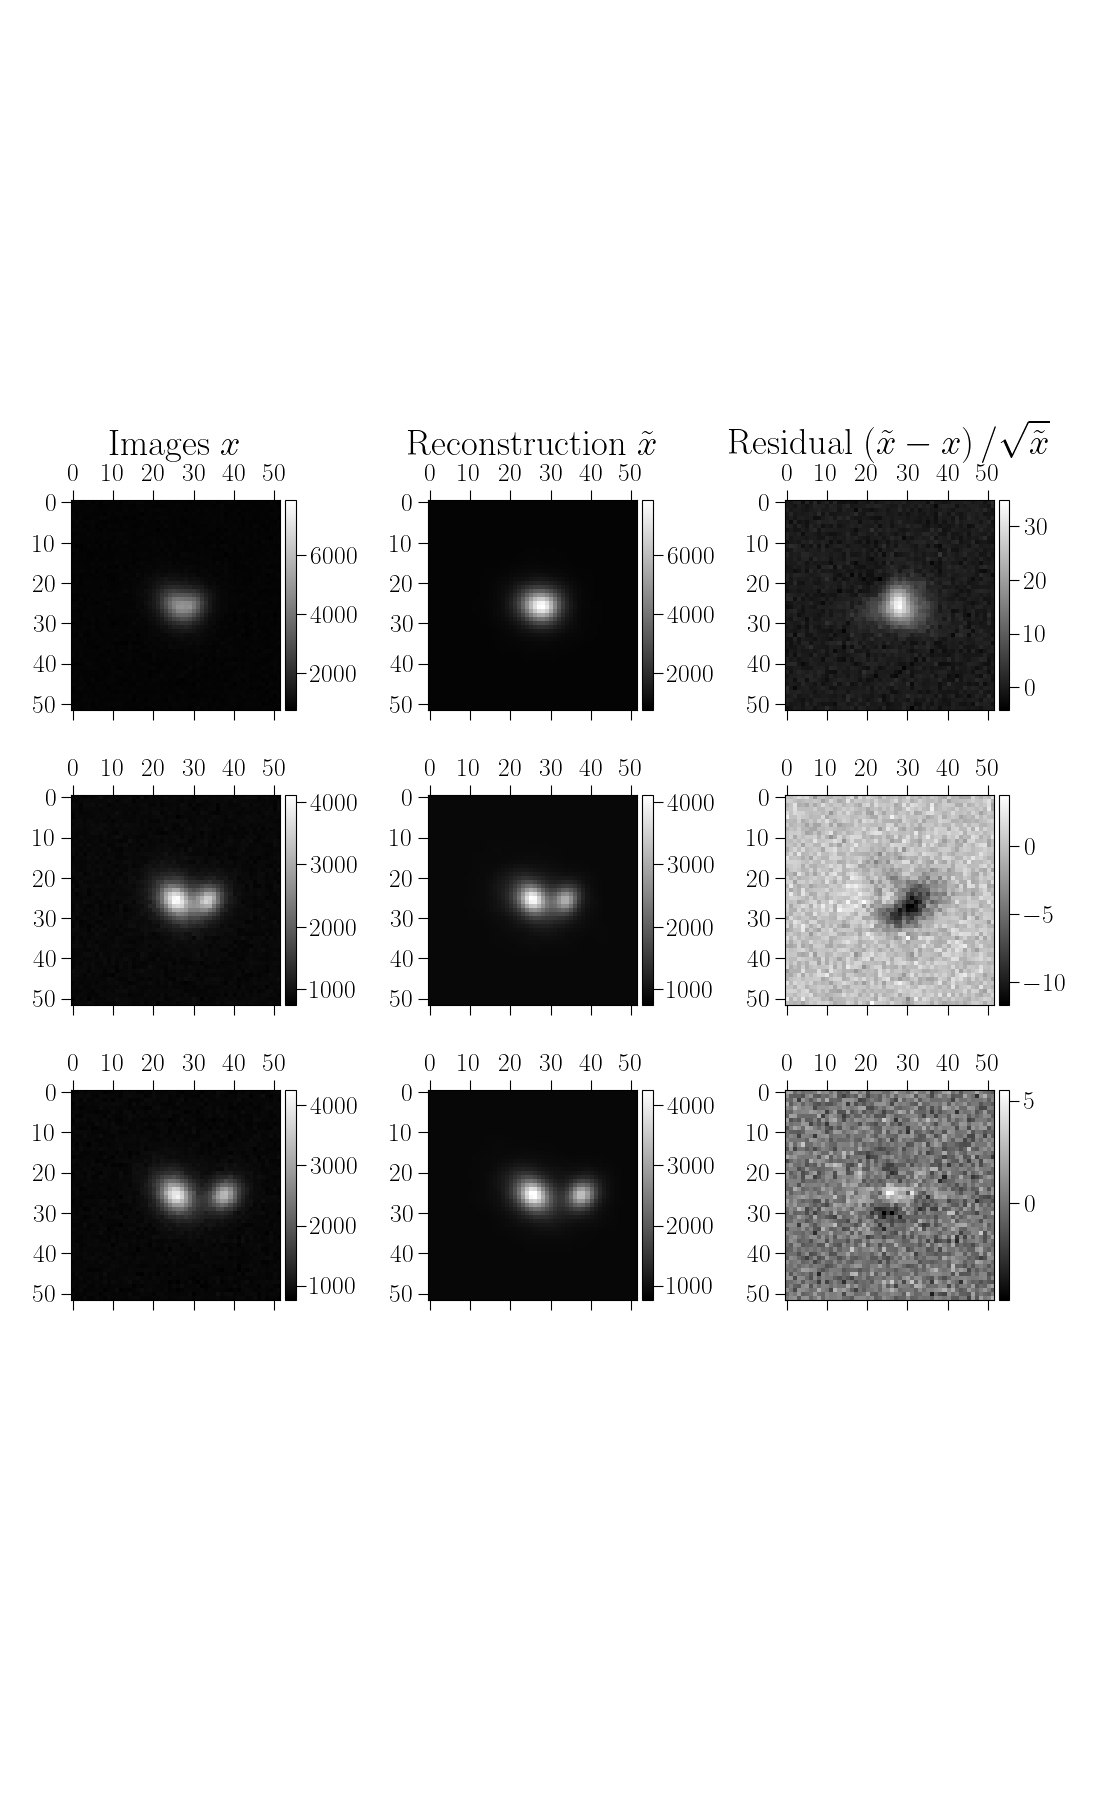
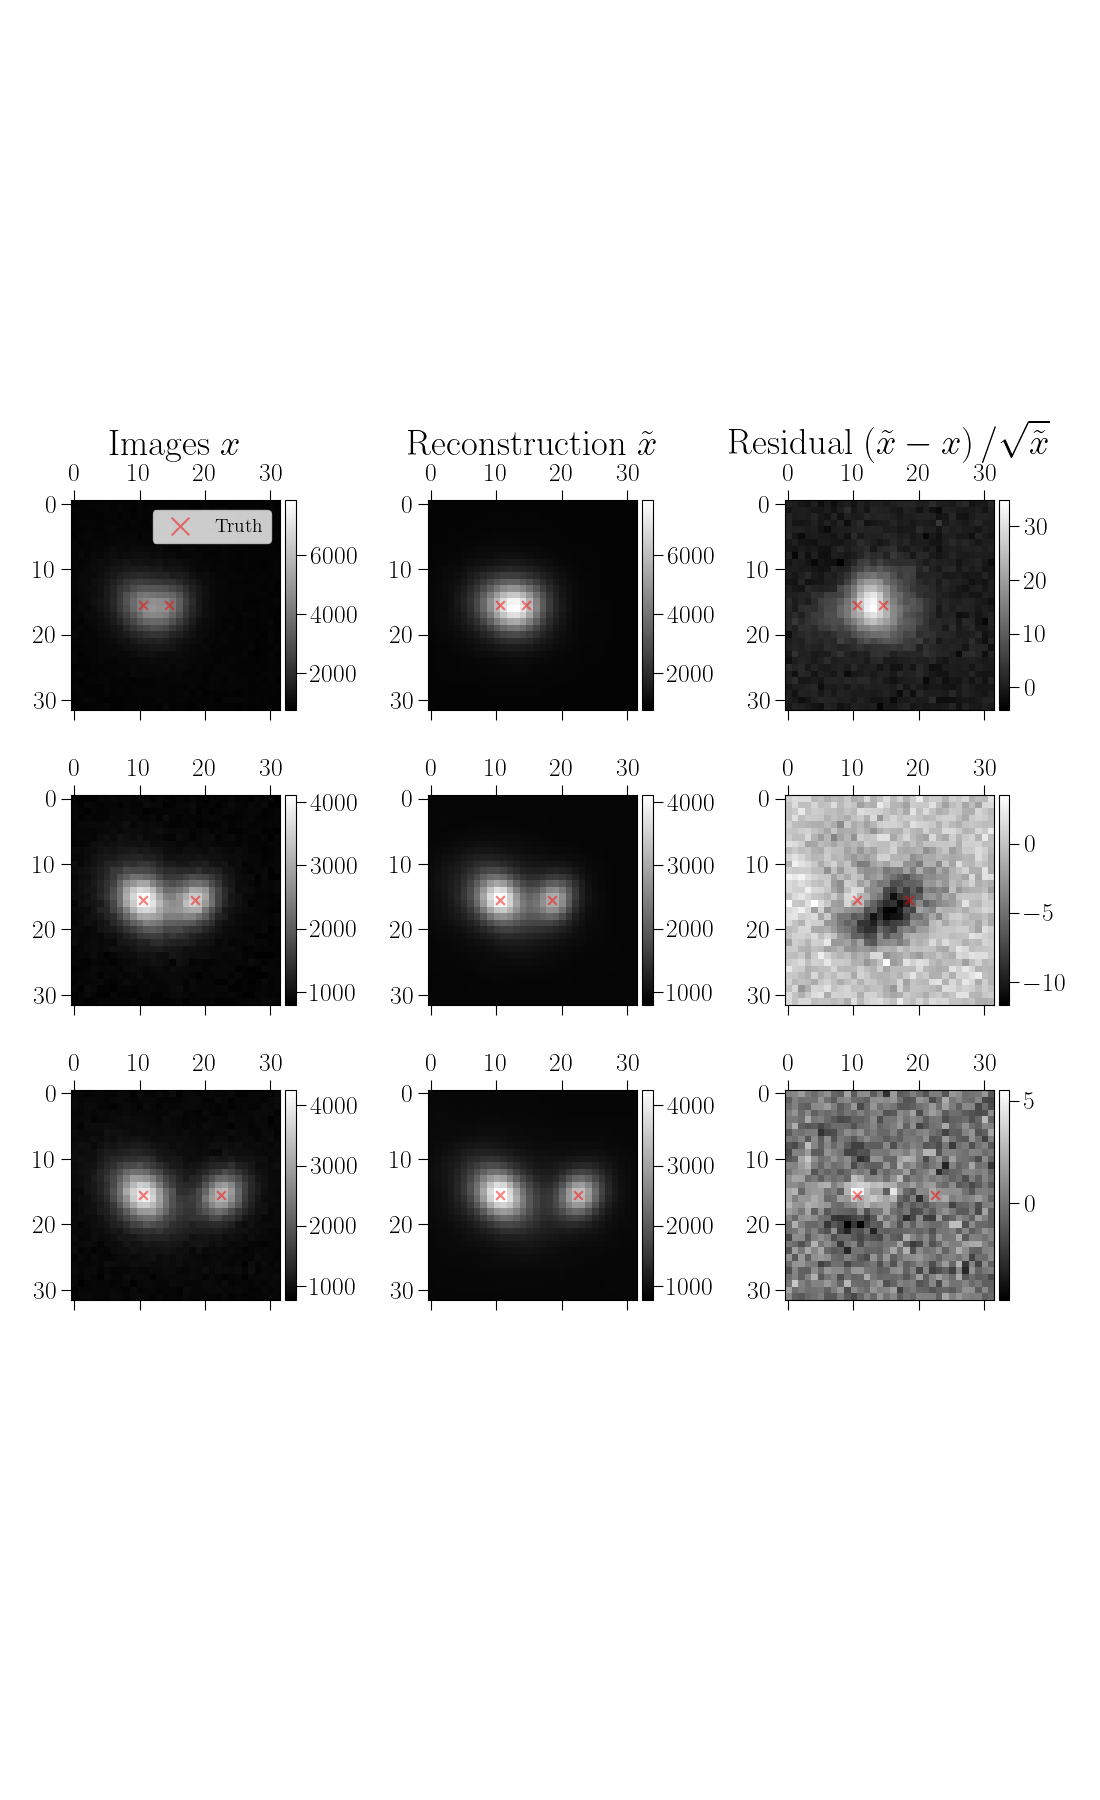
fix toy residual figure

diff --git a/case_studies/galsim_galaxies/get_figures.py b/case_studies/galsim_galaxies/get_figures.py
@@ -861,7 +861,7 @@ class ToySeparationFigure(BlissFigure):
         fig, axes = plt.subplots(1, 3, figsize=(12, 7))
         axes = axes.flatten()
         seps_to_plot = self.separations_to_plot
-        trim = 20  # zoom into relevant part of the image
+        trim = 25  # zoom into relevant part of the image
 
         c1 = plt.rcParams["axes.prop_cycle"].by_key()["color"][1]  # true
         c2 = plt.rcParams["axes.prop_cycle"].by_key()["color"][3]  # predicted
@@ -876,8 +876,8 @@ class ToySeparationFigure(BlissFigure):
             axes[ii].imshow(image, cmap="gray")
             axes[ii].scatter(x1, y1, marker="x", color="r", s=30, label=None if ii else "Truth")
             axes[ii].scatter(x2, y2, marker="+", color="b", s=50, label=None if ii else "Predicted")
-            axes[ii].set_xticks([0, 10, 20, 30, 40, 50])
-            axes[ii].set_yticks([0, 10, 20, 30, 40, 50])
+            axes[ii].set_xticks([0, 10, 20, 30, 40])
+            axes[ii].set_yticks([0, 10, 20, 30, 40])
             axes[ii].set_title(rf"\rm Separation: {psep} pixels")
 
             if ii == 0:
@@ -910,15 +910,19 @@ class ToySeparationFigureResiduals(ToySeparationFigure):
 
     def create_figure(self, data) -> Figure:
         n_examples = 3
+        bp = 24
         seps_to_plot = [4, 8, 12]
         seps = data["seps"]
+        tplocs: np.ndarray = data["truth"]["ploc"]
         images_all, recon_all, res_all = data["images"], data["recon"], data["resid"]
         trim = 20
         indices = np.array([list(seps).index(psep) for psep in seps_to_plot]).astype(int)
 
-        images = images_all[indices, 0, trim:-trim, trim:-trim]
-        recons = recon_all[indices, 0, trim:-trim, trim:-trim]
-        residuals = res_all[indices, 0, trim:-trim, trim:-trim]
+        images = images_all[indices, 0, trim + 10 : -trim - 10, trim + 15 : -trim - 5]
+        recons = recon_all[indices, 0, trim + 10 : -trim - 10, trim + 15 : -trim - 5]
+        residuals = res_all[indices, 0, trim + 10 : -trim - 10, trim + 15 : -trim - 5]
+        x1 = tplocs[indices, :, 1] + bp - 0.5 - trim - 15
+        y1 = tplocs[indices, :, 0] + bp - 0.5 - trim - 10
 
         pad = 6.0
         fig, axes = plt.subplots(nrows=n_examples, ncols=3, figsize=(11, 18))
@@ -936,6 +940,10 @@ class ToySeparationFigureResiduals(ToySeparationFigure):
                     r"Residual $\left(\tilde{x} - x\right) / \sqrt{\tilde{x}}$", pad=pad
                 )
 
+            ax_true.scatter(x1[i], y1[i], color="r", alpha=0.5, s=40, marker="x", label="Truth")
+            ax_recon.scatter(x1[i], y1[i], color="r", alpha=0.5, s=40, marker="x")
+            ax_res.scatter(x1[i], y1[i], color="r", alpha=0.5, s=40, marker="x")
+
             # standarize ranges of true and reconstruction
             image = images[i]
             recon = recons[i]
@@ -950,6 +958,16 @@ class ToySeparationFigureResiduals(ToySeparationFigure):
             plot_image(fig, ax_true, image, vrange=(vmin, vmax))
             plot_image(fig, ax_recon, recon, vrange=(vmin, vmax))
             plot_image(fig, ax_res, res, vrange=(vmin_res, vmax_res))
+
+            ax_true.set_xticks([0, 10, 20, 30])
+            ax_true.set_yticks([0, 10, 20, 30])
+            ax_recon.set_xticks([0, 10, 20, 30])
+            ax_recon.set_yticks([0, 10, 20, 30])
+            ax_res.set_xticks([0, 10, 20, 30])
+            ax_res.set_yticks([0, 10, 20, 30])
+
+            if i == 0:
+                ax_true.legend(loc="best", prop={"size": 14}, markerscale=2)
 
         plt.subplots_adjust(hspace=-0.9)
         plt.tight_layout()
